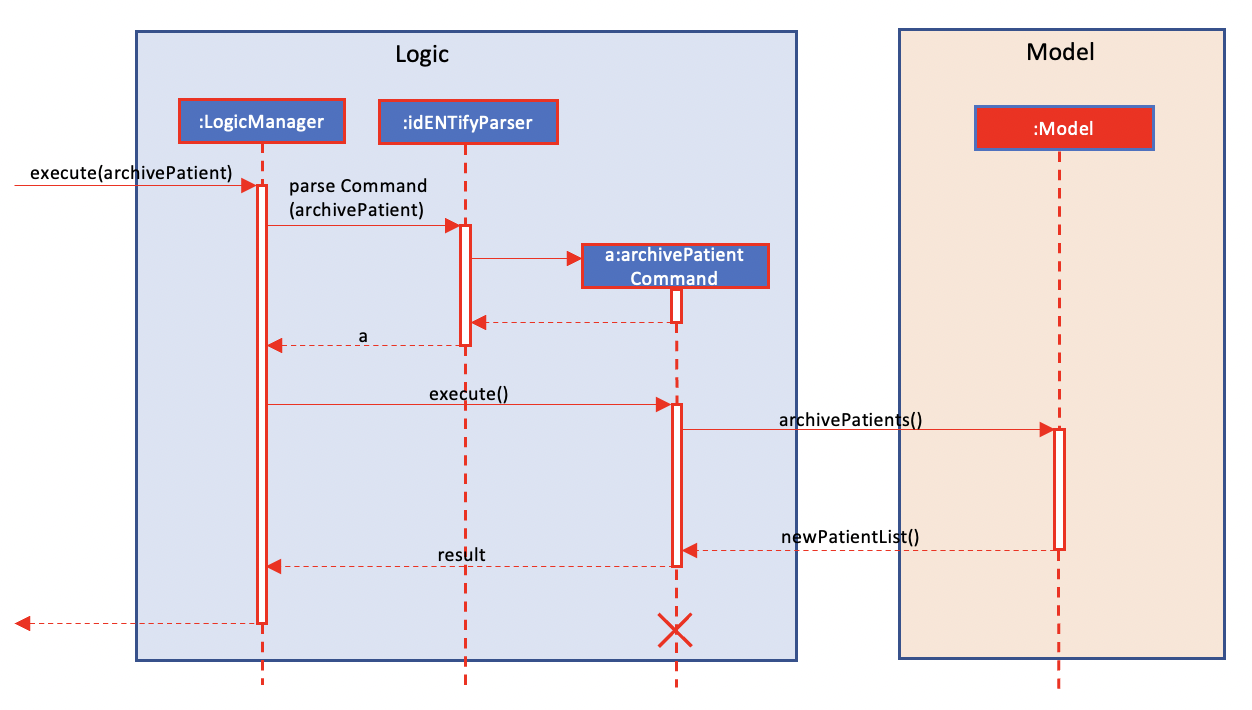
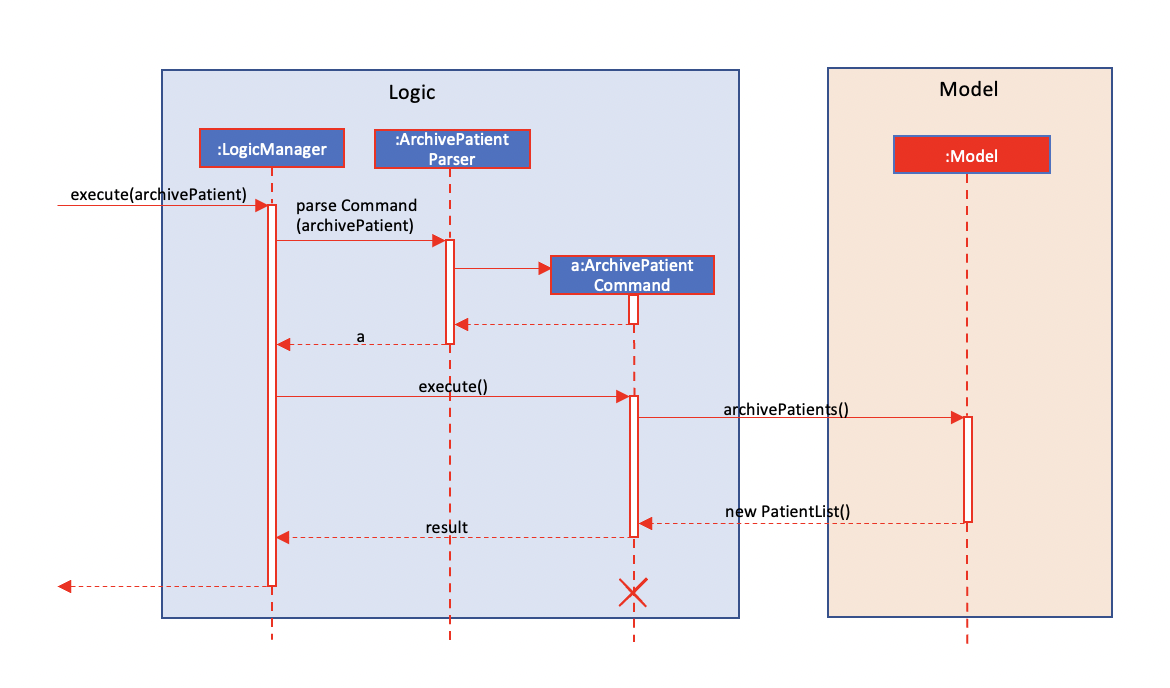
Update archive appointment UMLs to DG

Changed region(s): [[0.0, 0.0305, 0.9846, 0.9462], [0.0, 0.8241, 0.0615, 0.8852], [0.2769, 0.4578, 0.3077, 0.4884]]

diff --git a/docs/DeveloperGuide.md b/docs/DeveloperGuide.md
@@ -240,7 +240,7 @@ _{more aspects and alternatives to be added}_
 
 The archive mechanism implements the following operations:
 
-* `idENTify#archive()` — Archive patients accroding to their tags.
+* `idENTify#archive()` — Archive patients according to their tags.
 
 The operation is exposed in the `Command` interface as `Command#ArchivePatientCommand()`.
 
@@ -256,7 +256,7 @@ Step 2. The user executes `archive patient` command to archive patients by their
 patients after the `archive patient` command executes to show on the screen.
 
 The Sequence Diagram below illustrates the interactions within the `Logic` component for the `execute
-("archive Patient")` API 
+("archive patient")` API 
 call.
 
 ![Interactions Inside the Logic Component for the `archive patient` Command](images/ArchivePatientSequenceDiagram.png)
@@ -271,6 +271,44 @@ The following activity diagram summarizes what happens when a user executes a ne
 
 * **Current choice:** Create multiple patient lists according to tags and merge all the lists to show the merged 
   list on the screen.
+
+### \[In progress\] Appointments archiving
+
+#### In progress
+
+The archive mechanism implements the following operations:
+
+* `idENTify#archive()` — Archive appointments according to their tags or dates.
+
+The operation is exposed in the `Command` interface as `Command#ArchiveAppointmentCommand()`.
+
+
+
+Given below is an example usage scenario and how the archive mechanism behaves at each step.
+
+Step 1. The user launches the application for the first time. The `idENTify` will be initialized with the initial
+appointment list.
+
+
+Step 2. The user executes `archive appts /t` command to archive patients by their tags, causing the modified list of
+appointments after the `archive appts /t` command executes to show on the screen.
+
+The Sequence Diagram below illustrates the interactions within the `Logic` component for the `execute
+("archive appts")` API
+call.
+
+![Interactions Inside the Logic Component for the `archive appts` Command](images/ArchiveAppointmentSequenceDiagram.png)
+
+The following activity diagram summarizes what happens when a user executes a new command:
+
+<img src="images/ArchiveAppointmentCommand.png" width="250" />
+
+#### Design considerations:
+
+**Aspect: How archive appointment executes:**
+
+* **Current choice:** Create multiple appointment lists according to tags or dates and merge all the lists to show the 
+  merged list on the screen.
 
 _{more aspects and alternatives to be added}_
 
